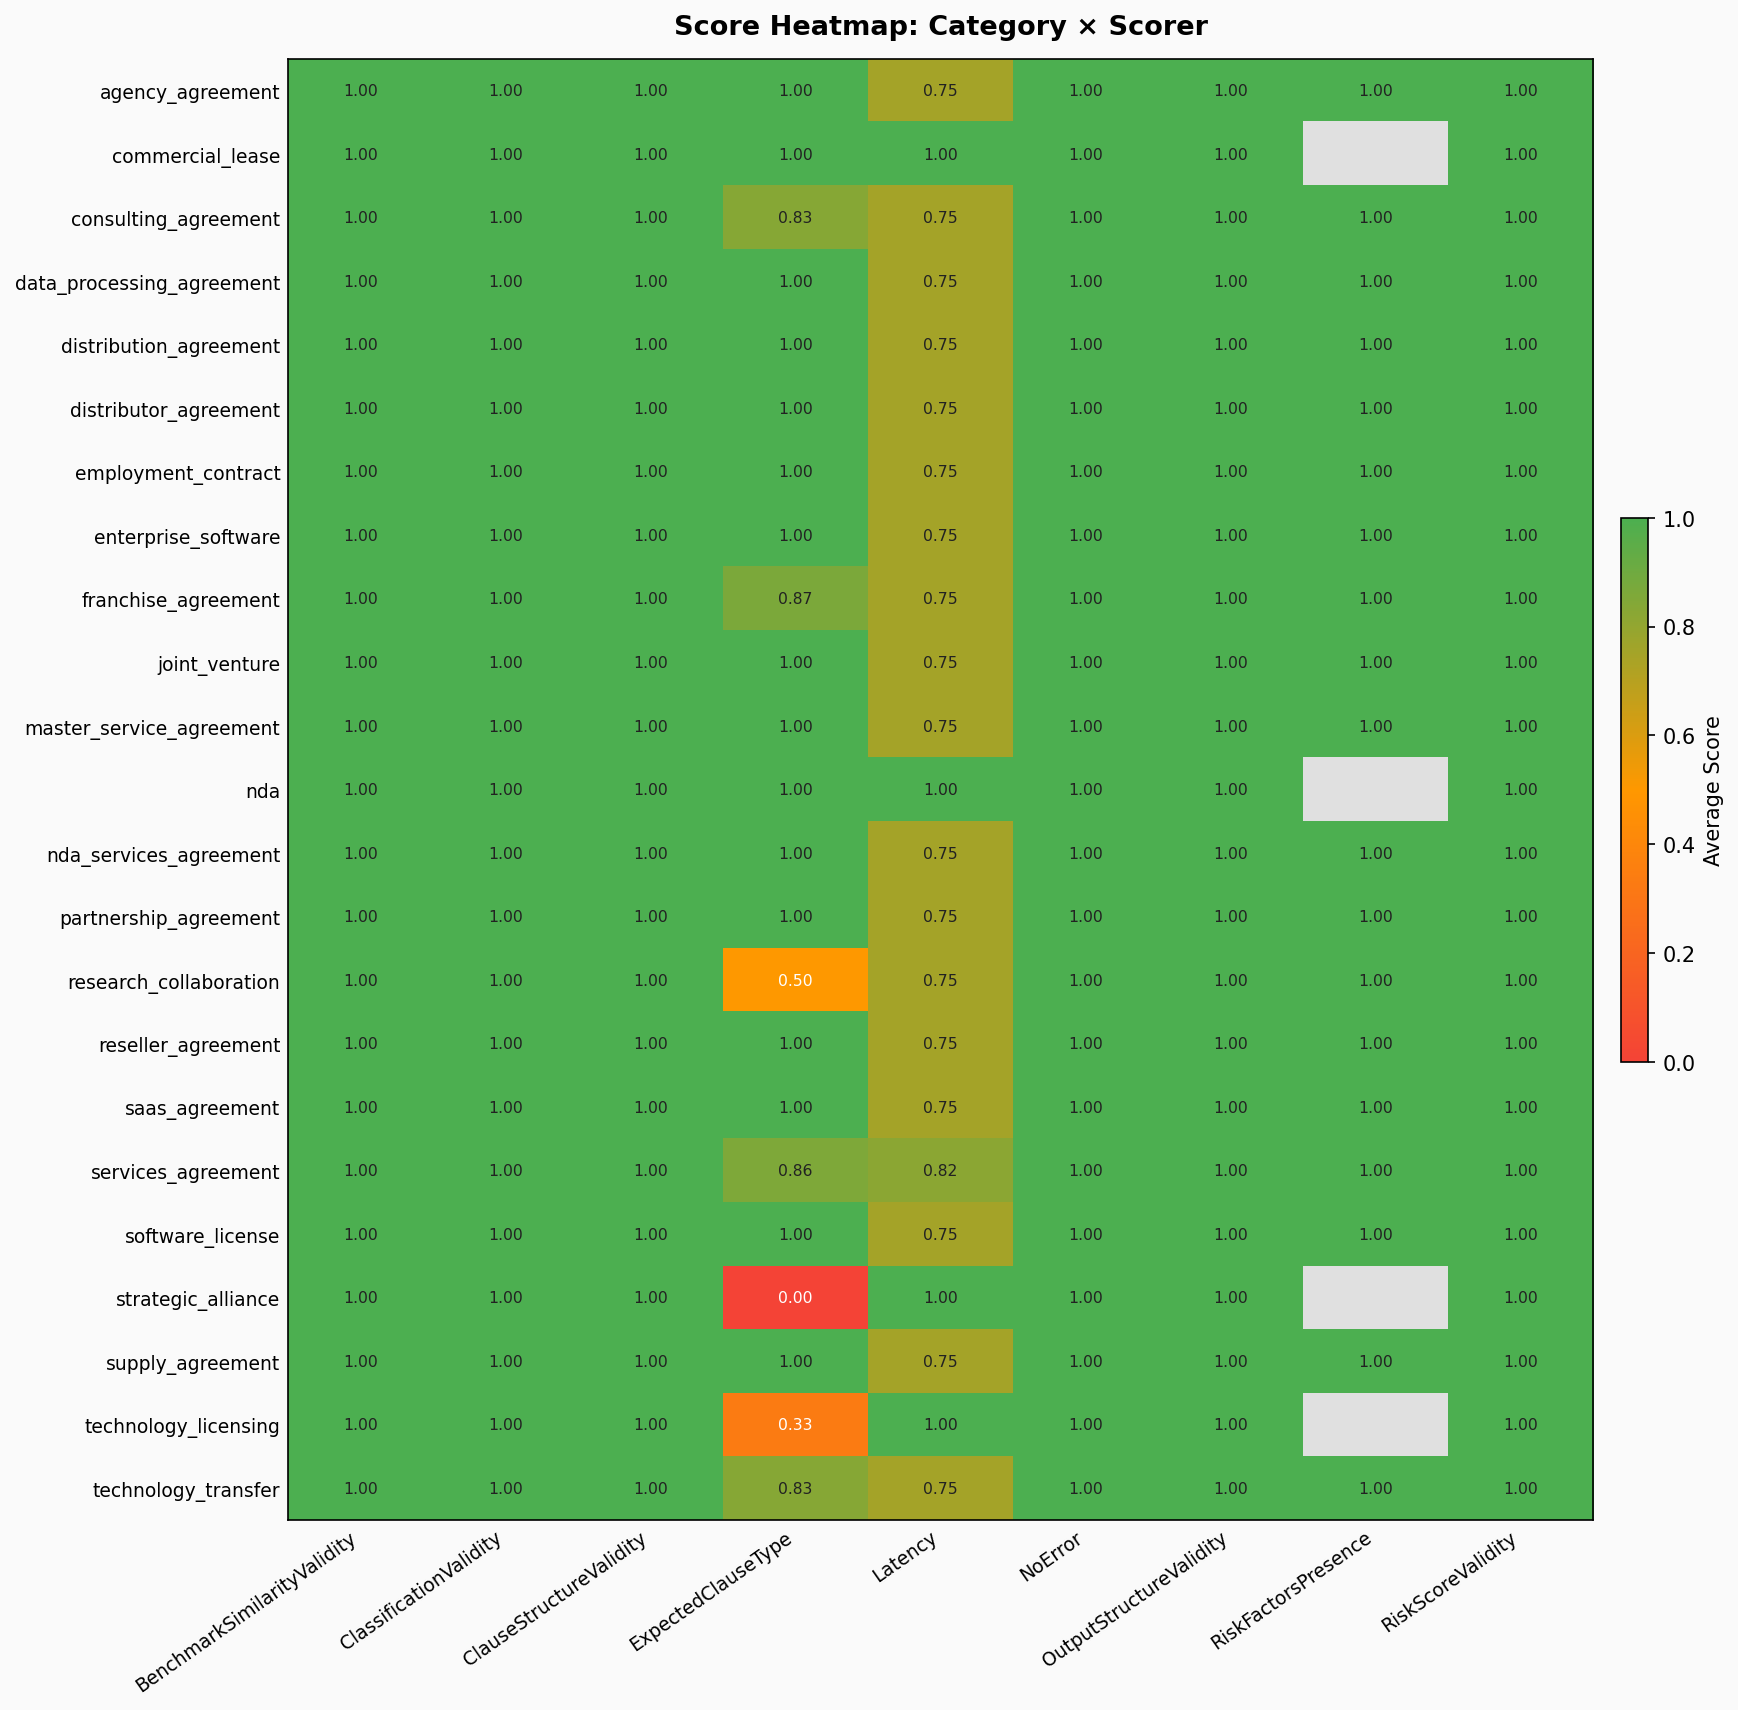
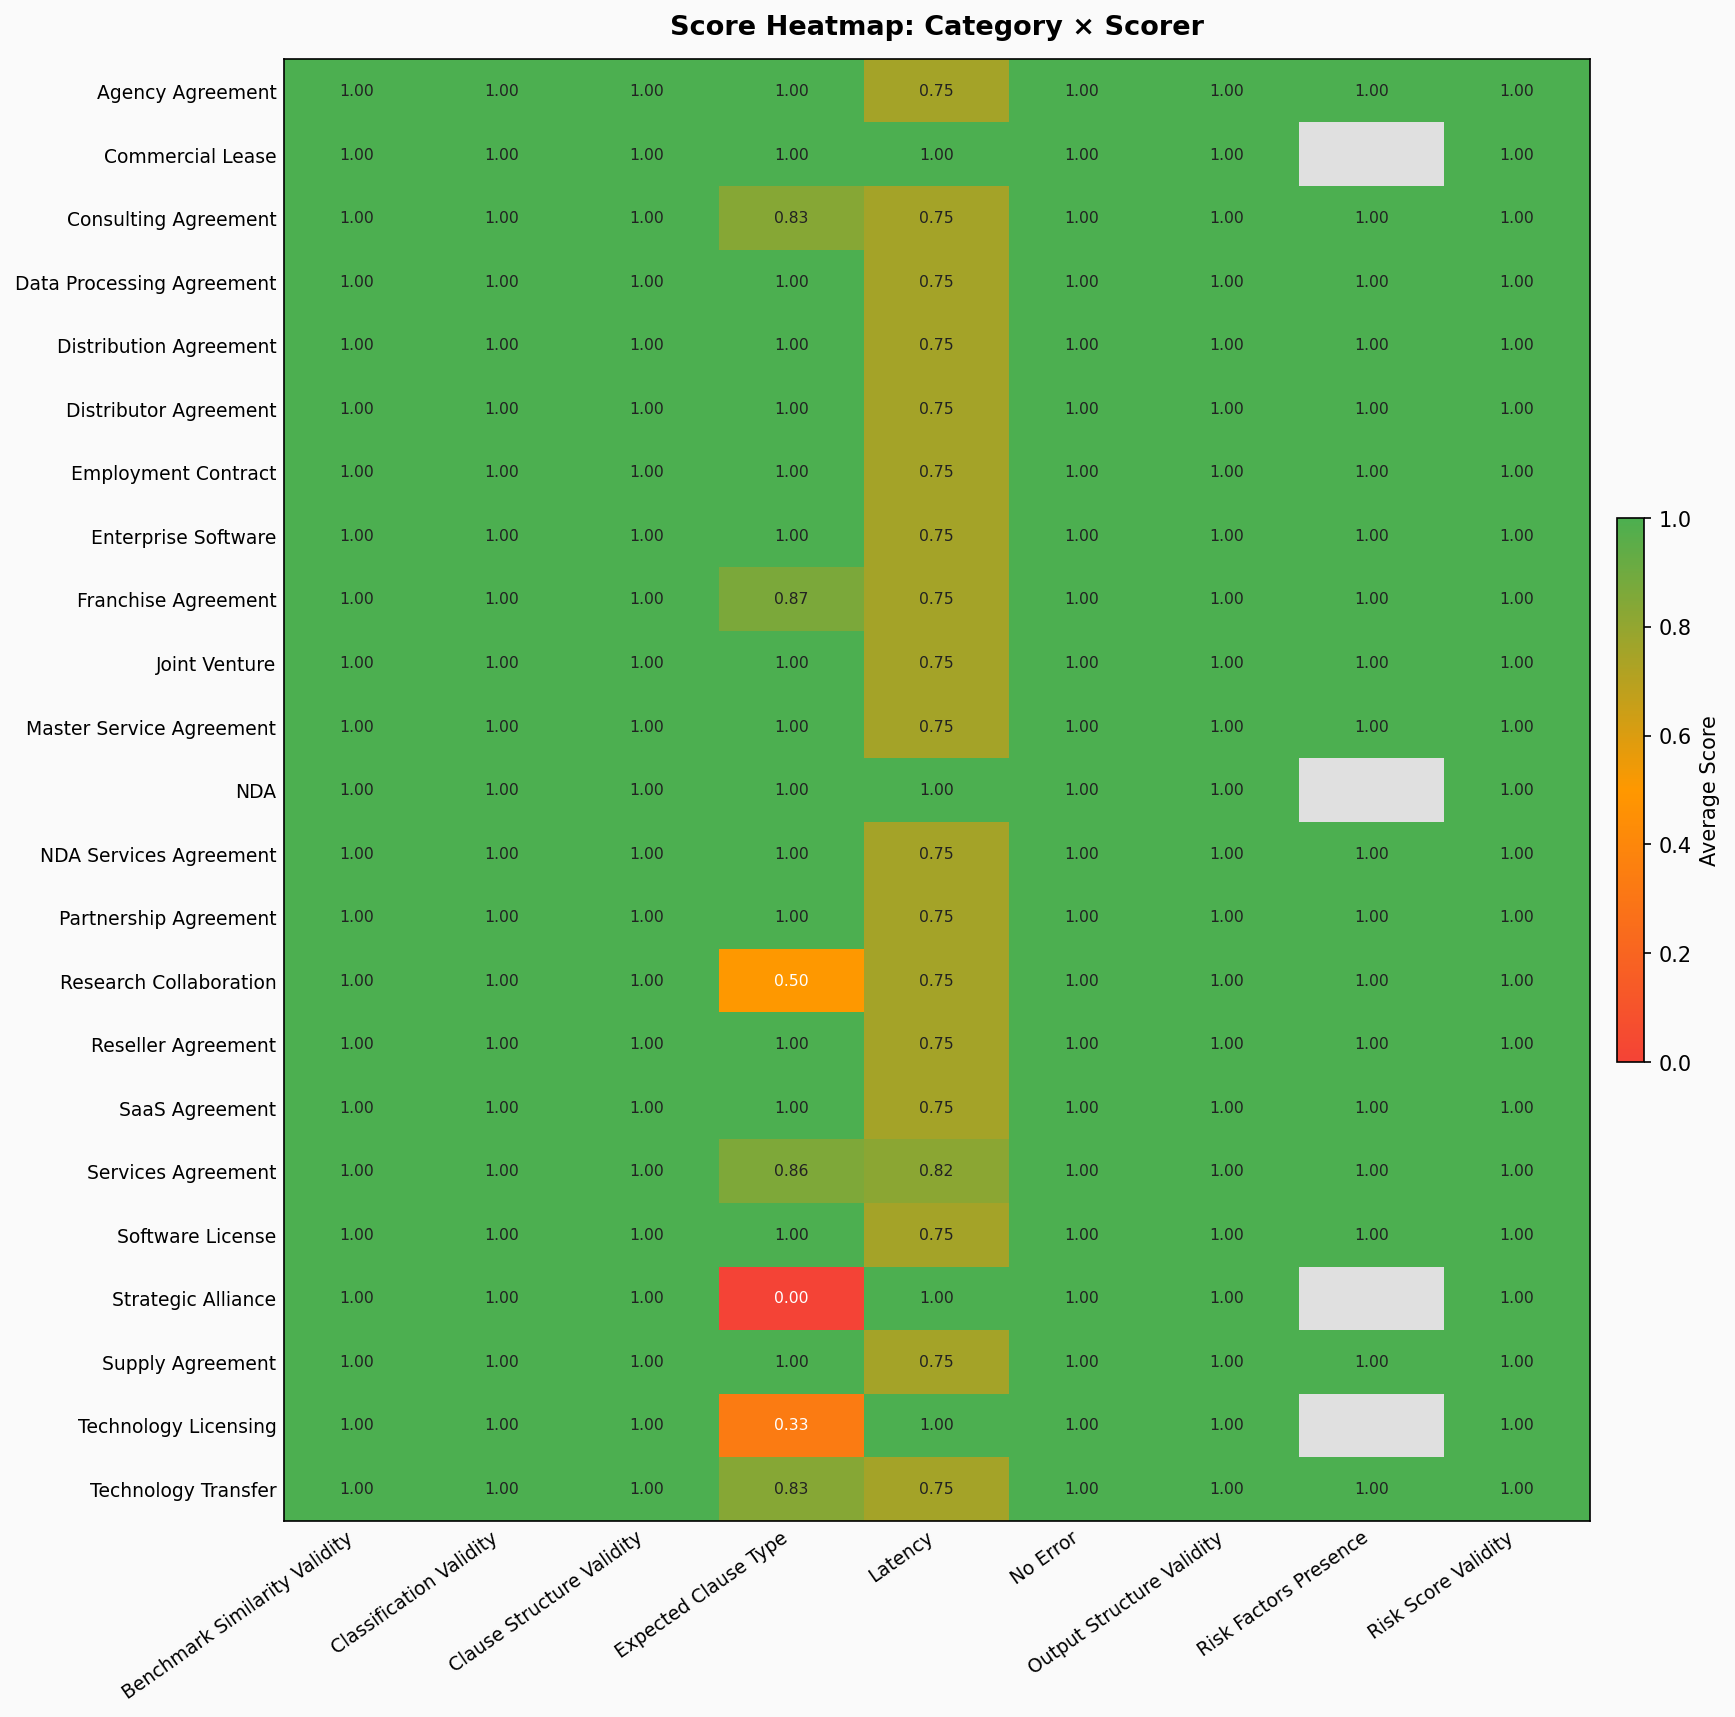
updated agent evaluation charts and braintrust compatibility

diff --git a/agent-evaluation/visualize_metrics.py b/agent-evaluation/visualize_metrics.py
@@ -32,6 +32,49 @@ PALETTE = {
     "bg":   "#FAFAFA",
 }
 
+_SCORER_LABELS = {
+    "BenchmarkSimilarityValidity": "Benchmark Similarity Validity",
+    "ClassificationValidity":      "Classification Validity",
+    "ClauseStructureValidity":     "Clause Structure Validity",
+    "ExpectedClauseType":          "Expected Clause Type",
+    "Factuality":                  "Factuality",
+    "Latency":                     "Latency",
+    "NoError":                     "No Error",
+    "OutputStructureValidity":     "Output Structure Validity",
+    "RiskFactorsPresence":         "Risk Factors Presence",
+    "RiskScoreValidity":           "Risk Score Validity",
+}
+
+_CATEGORY_LABELS = {
+    "agency_agreement":          "Agency Agreement",
+    "commercial_lease":          "Commercial Lease",
+    "consulting_agreement":      "Consulting Agreement",
+    "data_processing_agreement": "Data Processing Agreement",
+    "distribution_agreement":    "Distribution Agreement",
+    "distributor_agreement":     "Distributor Agreement",
+    "employment_contract":       "Employment Contract",
+    "enterprise_software":       "Enterprise Software",
+    "franchise_agreement":       "Franchise Agreement",
+    "joint_venture":             "Joint Venture",
+    "master_service_agreement":  "Master Service Agreement",
+    "nda":                       "NDA",
+    "nda_services_agreement":    "NDA Services Agreement",
+    "partnership_agreement":     "Partnership Agreement",
+    "research_collaboration":    "Research Collaboration",
+    "reseller_agreement":        "Reseller Agreement",
+    "saas_agreement":            "SaaS Agreement",
+    "services_agreement":        "Services Agreement",
+    "software_license":          "Software License",
+    "strategic_alliance":        "Strategic Alliance",
+    "supply_agreement":          "Supply Agreement",
+    "technology_licensing":      "Technology Licensing",
+    "technology_transfer":       "Technology Transfer",
+}
+
+
+def _fmt(name: str, mapping: dict) -> str:
+    return mapping.get(name, name.replace("_", " ").title())
+
 
 def load_metrics(path: str) -> dict:
     p = Path(path)
@@ -70,7 +113,8 @@ def plot_overall_scores(metrics: dict) -> None:
     fig.patch.set_facecolor(PALETTE["bg"])
     ax.set_facecolor(PALETTE["bg"])
 
-    bars = ax.barh(scorers, averages, color=colors, edgecolor="white", height=0.6)
+    scorer_labels = [_fmt(s, _SCORER_LABELS) for s in scorers]
+    bars = ax.barh(scorer_labels, averages, color=colors, edgecolor="white", height=0.6)
 
     for bar, avg, n in zip(bars, averages, counts):
         ax.text(
@@ -127,9 +171,9 @@ def plot_category_heatmap(metrics: dict) -> None:
     im = ax.imshow(matrix, cmap=cmap, vmin=0.0, vmax=1.0, aspect="auto")
 
     ax.set_xticks(range(len(scorers)))
-    ax.set_xticklabels(scorers, rotation=35, ha="right", fontsize=9)
+    ax.set_xticklabels([_fmt(s, _SCORER_LABELS) for s in scorers], rotation=35, ha="right", fontsize=9)
     ax.set_yticks(range(len(categories)))
-    ax.set_yticklabels(categories, fontsize=9)
+    ax.set_yticklabels([_fmt(c, _CATEGORY_LABELS) for c in categories], fontsize=9)
 
     for r in range(len(categories)):
         for c in range(len(scorers)):
@@ -219,13 +263,14 @@ def plot_failures_by_category(metrics: dict, threshold: float) -> None:
 
     categories = sorted(failure_counts, key=lambda c: -failure_counts[c])
     counts = [failure_counts[c] for c in categories]
+    category_labels = [_fmt(c, _CATEGORY_LABELS) for c in categories]
 
     fig, ax = plt.subplots(figsize=(9, max(4, len(categories) * 0.5)))
     fig.patch.set_facecolor(PALETTE["bg"])
     ax.set_facecolor(PALETTE["bg"])
 
-    ax.barh(categories, counts, color=PALETTE["fail"], edgecolor="white", height=0.6)
-    for i, (cat, count) in enumerate(zip(categories, counts)):
+    ax.barh(category_labels, counts, color=PALETTE["fail"], edgecolor="white", height=0.6)
+    for i, (cat, count) in enumerate(zip(category_labels, counts)):
         ax.text(count + 0.05, i, str(count), va="center", fontsize=10)
 
     ax.set_xlabel("Number of Failed Cases", fontsize=11)

diff --git a/agent-evaluation/eval.py b/agent-evaluation/eval.py
@@ -28,6 +28,7 @@ _PROJECT_ROOT = Path(__file__).resolve().parent.parent
 if str(_PROJECT_ROOT) not in sys.path:
     sys.path.insert(0, str(_PROJECT_ROOT))
 
+import braintrust
 from autoevals.llm import Factuality
 from braintrust import Eval
 from dotenv import load_dotenv
@@ -53,6 +54,12 @@ BRAINTRUST_PROJECT_NAME = os.environ.get("BRAINTRUST_PROJECT", "contract-pipelin
 _clause_type_metadata: dict[str, dict] = {}
 EVAL_JUDGE_MODEL = "claude-sonnet-4-6"
 ANTHROPIC_OPENAI_BASE_URL = "https://api.anthropic.com/v1/"
+
+braintrust.auto_instrument()
+braintrust.init_logger(
+    api_key=os.environ.get("BRAINTRUST_API_KEY"),
+    project=BRAINTRUST_PROJECT_NAME,
+)
 
 
 def _create_judge_client() -> OpenAI:
